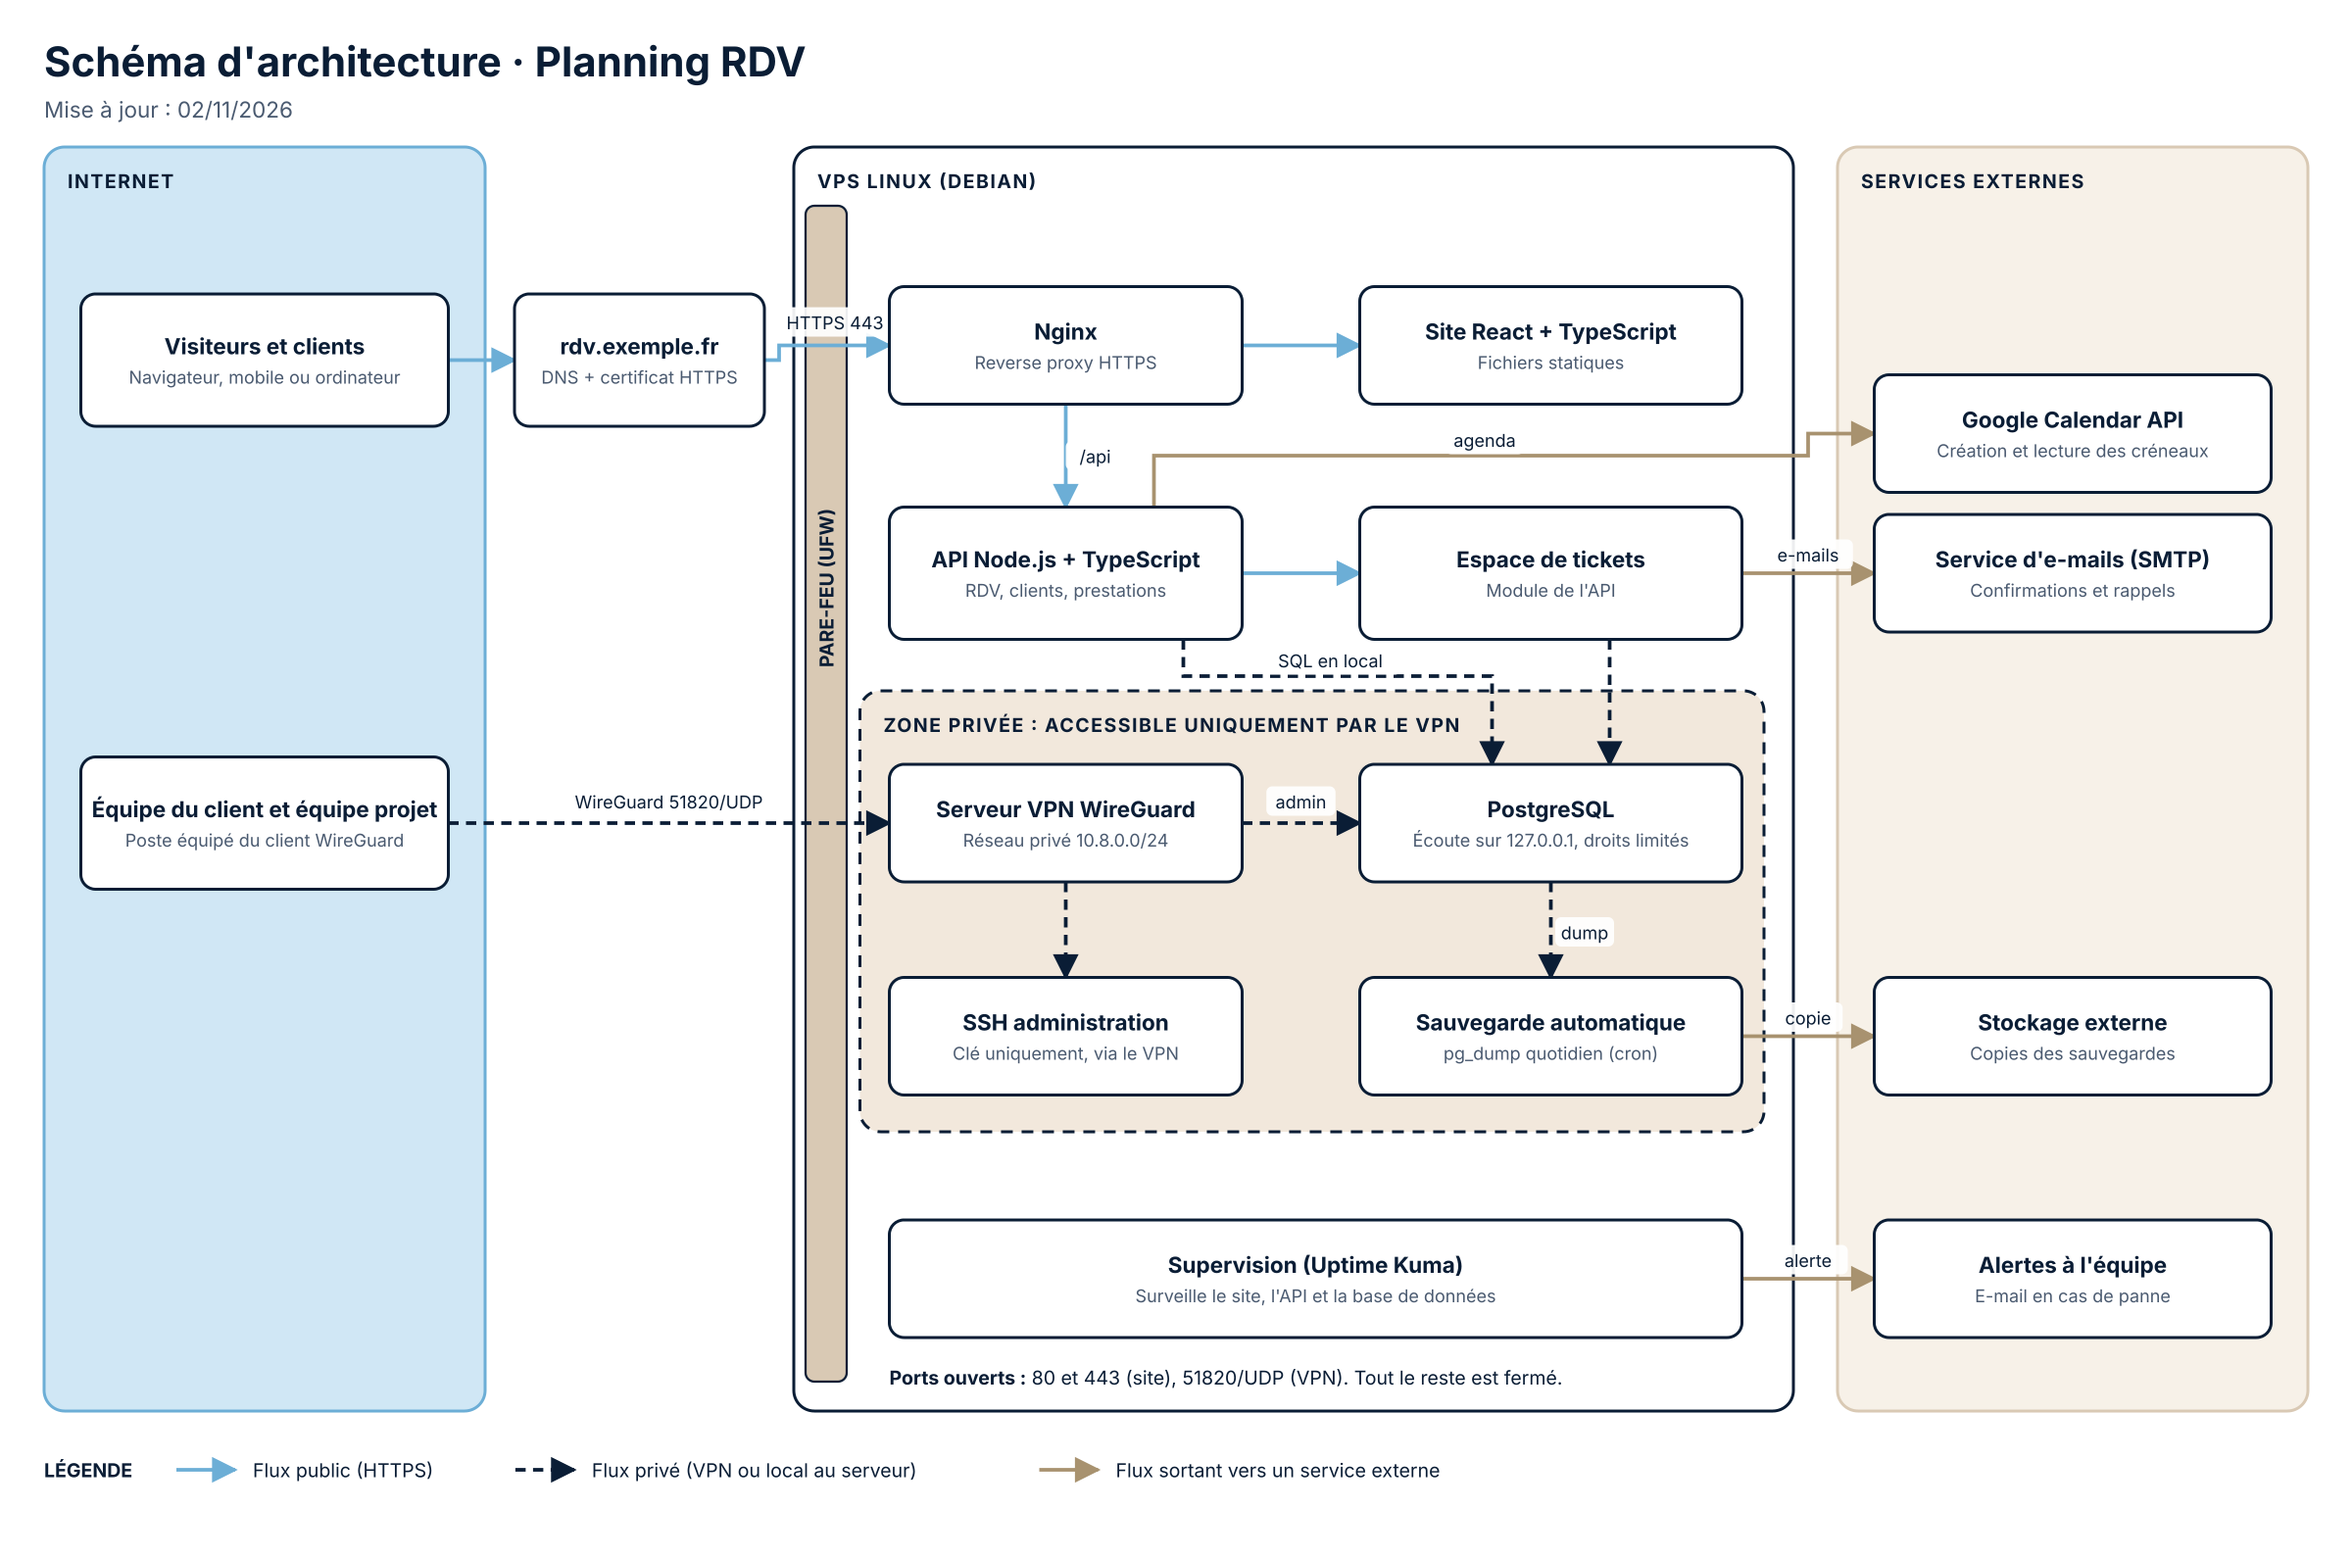
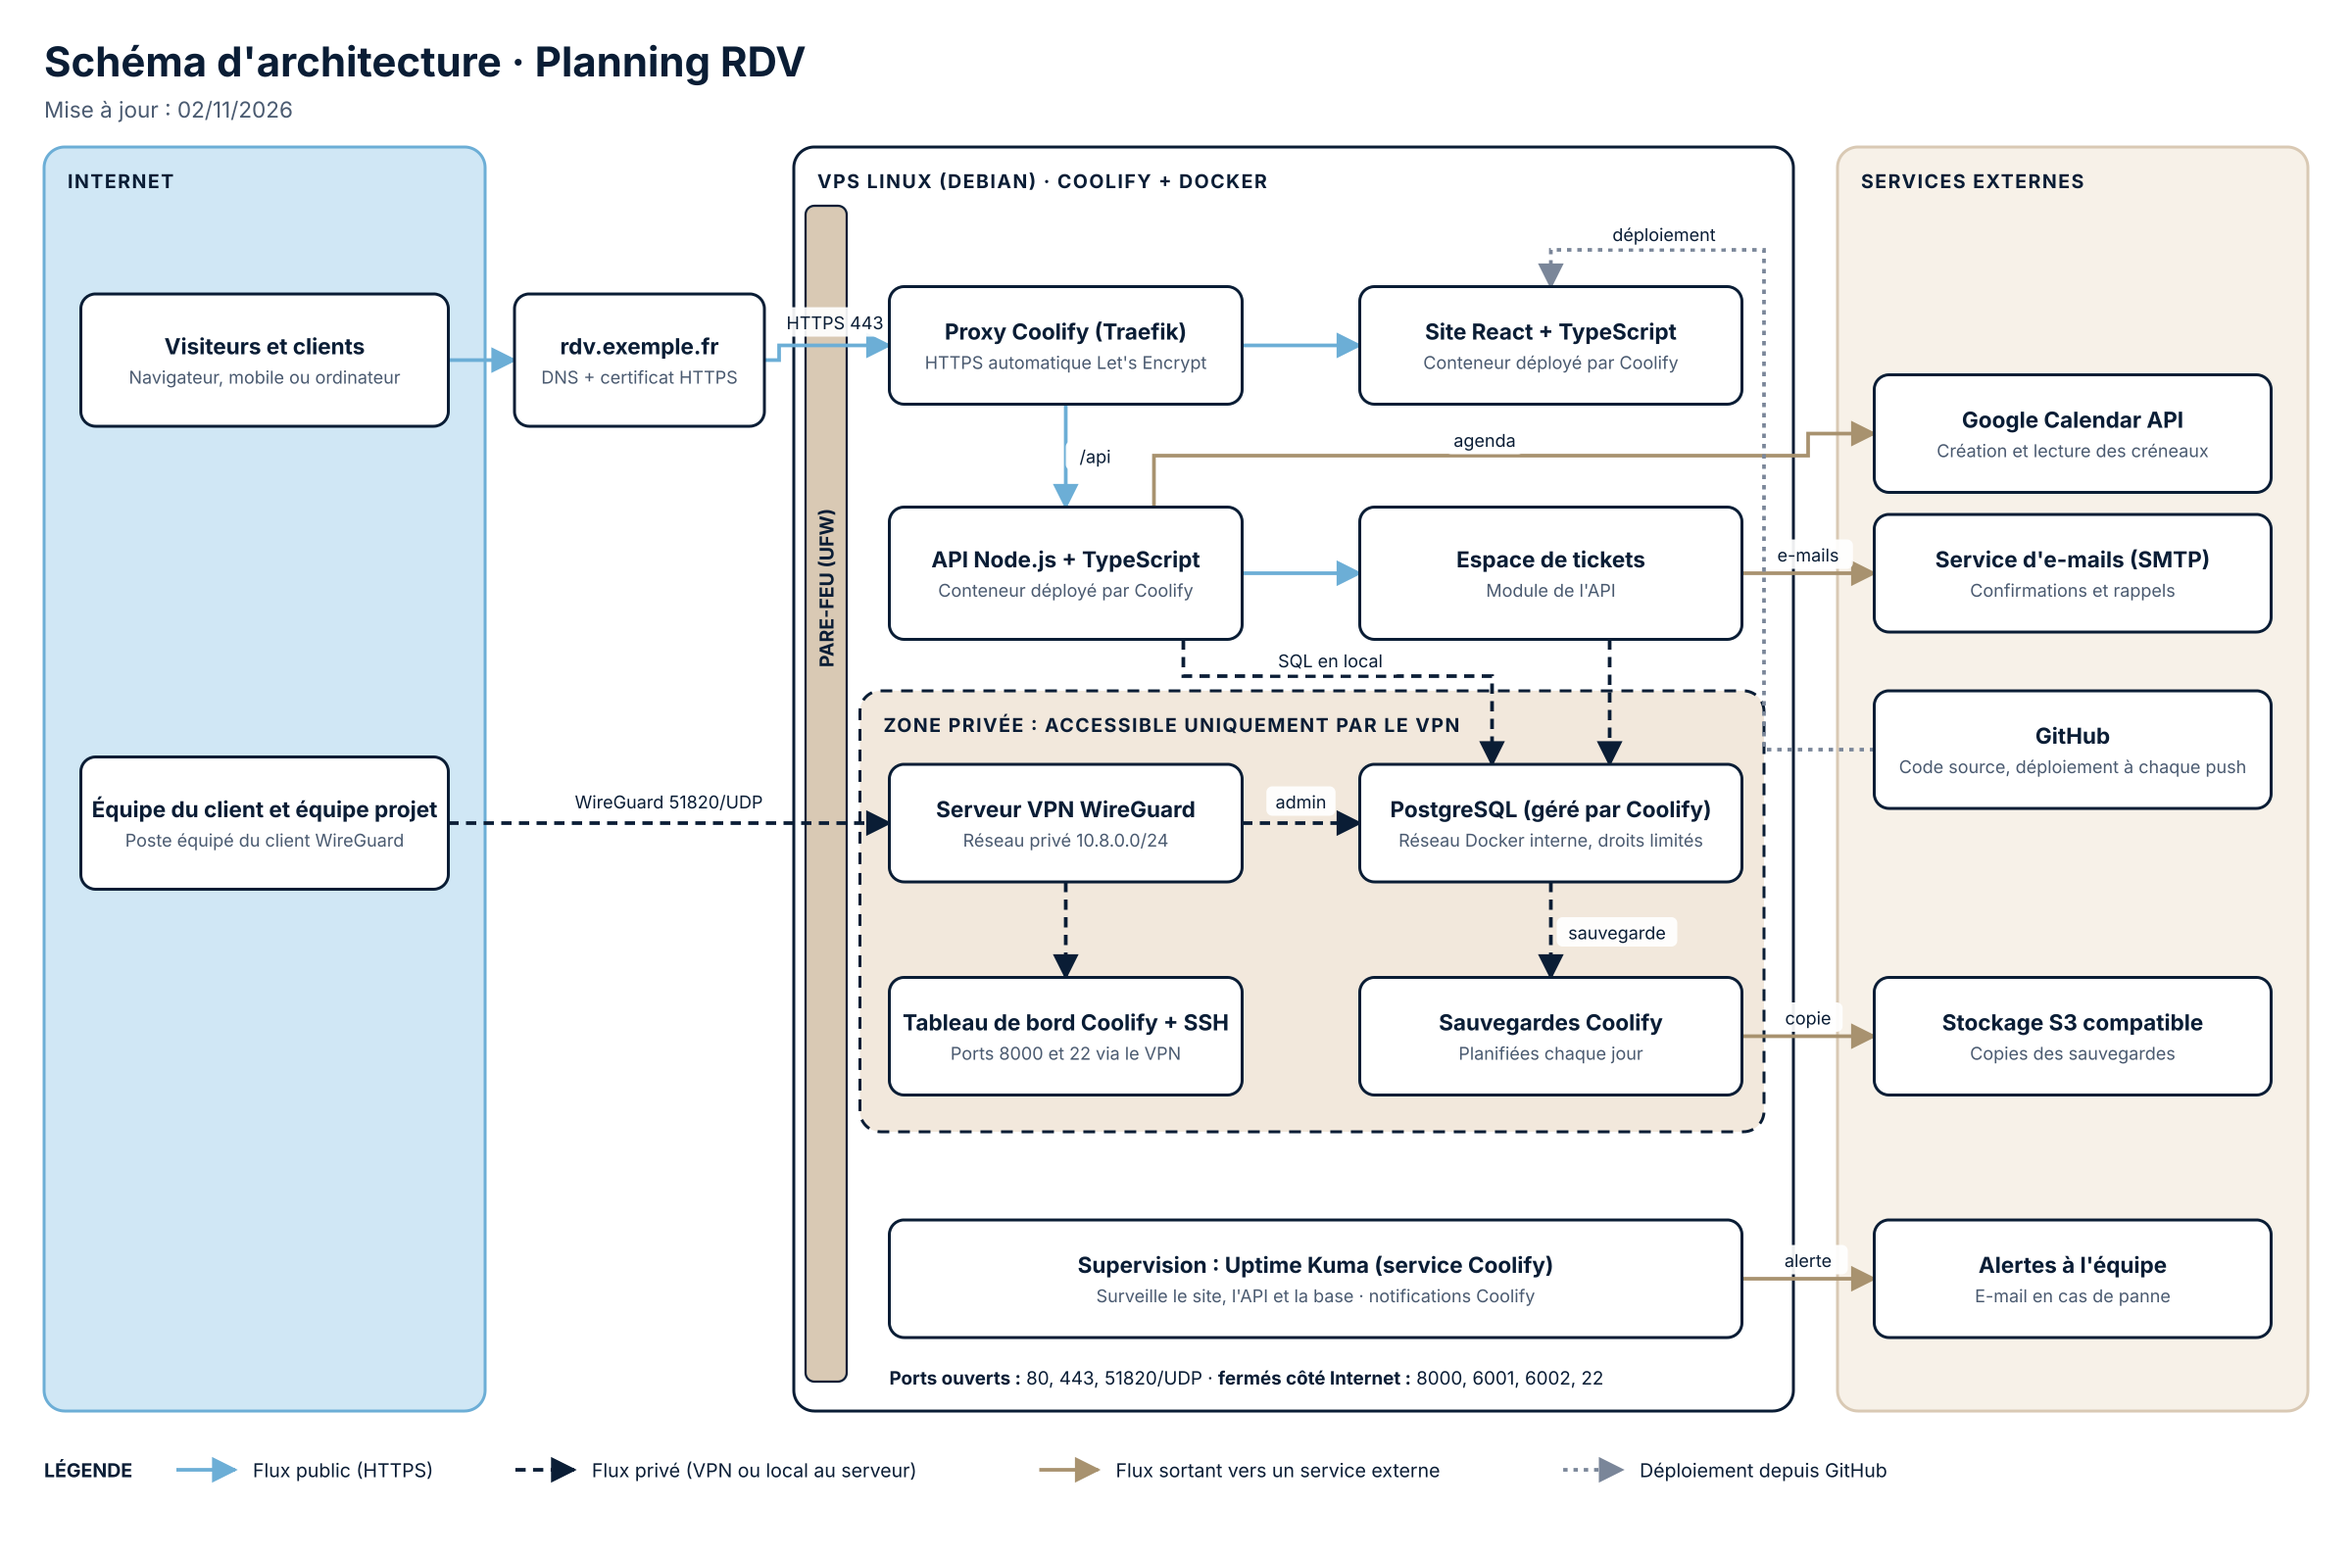
Schéma d'architecture : passage à Coolify
Claude-Session: https://claude.ai/code/session_01FQtCQfTXk5fcymuppQikVw

diff --git a/docs/make_schema.py b/docs/make_schema.py
@@ -8,7 +8,7 @@ W, H = 1600, 1060
 # Zones : id, x, y, w, h, titre, remplissage, contour, pointillés
 ZONES = [
     ("z_net", 30, 100, 300, 860, "INTERNET", DIAM, LIGHT, False),
-    ("z_vps", 540, 100, 680, 860, "VPS LINUX (DEBIAN)", "#FFFFFF", NAVY, False),
+    ("z_vps", 540, 100, 680, 860, "VPS LINUX (DEBIAN) · COOLIFY + DOCKER", "#FFFFFF", NAVY, False),
     ("z_priv", 585, 470, 615, 300, "ZONE PRIVÉE : ACCESSIBLE UNIQUEMENT PAR LE VPN", IVORY, NAVY, True),
     ("z_ext", 1250, 100, 320, 860, "SERVICES EXTERNES", "#F7F1E8", CHAMP, False),
 ]
@@ -18,19 +18,20 @@ BOXES = [
     ("visit", 55, 200, 250, 90, "Visiteurs et clients", "Navigateur, mobile ou ordinateur"),
     ("team", 55, 515, 250, 90, "Équipe du client et équipe projet", "Poste équipé du client WireGuard"),
     ("dns", 350, 200, 170, 90, "rdv.exemple.fr", "DNS + certificat HTTPS"),
-    ("nginx", 605, 195, 240, 80, "Nginx", "Reverse proxy HTTPS"),
-    ("front", 925, 195, 260, 80, "Site React + TypeScript", "Fichiers statiques"),
-    ("api", 605, 345, 240, 90, "API Node.js + TypeScript", "RDV, clients, prestations"),
+    ("nginx", 605, 195, 240, 80, "Proxy Coolify (Traefik)", "HTTPS automatique Let's Encrypt"),
+    ("front", 925, 195, 260, 80, "Site React + TypeScript", "Conteneur déployé par Coolify"),
+    ("api", 605, 345, 240, 90, "API Node.js + TypeScript", "Conteneur déployé par Coolify"),
     ("tickets", 925, 345, 260, 90, "Espace de tickets", "Module de l'API"),
     ("wg", 605, 520, 240, 80, "Serveur VPN WireGuard", "Réseau privé 10.8.0.0/24"),
-    ("pg", 925, 520, 260, 80, "PostgreSQL", "Écoute sur 127.0.0.1, droits limités"),
-    ("ssh", 605, 665, 240, 80, "SSH administration", "Clé uniquement, via le VPN"),
-    ("backup", 925, 665, 260, 80, "Sauvegarde automatique", "pg_dump quotidien (cron)"),
-    ("monit", 605, 830, 580, 80, "Supervision (Uptime Kuma)", "Surveille le site, l'API et la base de données"),
+    ("pg", 925, 520, 260, 80, "PostgreSQL (géré par Coolify)", "Réseau Docker interne, droits limités"),
+    ("ssh", 605, 665, 240, 80, "Tableau de bord Coolify + SSH", "Ports 8000 et 22 via le VPN"),
+    ("backup", 925, 665, 260, 80, "Sauvegardes Coolify", "Planifiées chaque jour"),
+    ("monit", 605, 830, 580, 80, "Supervision : Uptime Kuma (service Coolify)", "Surveille le site, l'API et la base · notifications Coolify"),
     ("gcal", 1275, 255, 270, 80, "Google Calendar API", "Création et lecture des créneaux"),
     ("smtp", 1275, 350, 270, 80, "Service d'e-mails (SMTP)", "Confirmations et rappels"),
-    ("store", 1275, 665, 270, 80, "Stockage externe", "Copies des sauvegardes"),
+    ("store", 1275, 665, 270, 80, "Stockage S3 compatible", "Copies des sauvegardes"),
     ("alert", 1275, 830, 270, 80, "Alertes à l'équipe", "E-mail en cas de panne"),
+    ("github", 1275, 470, 270, 80, "GitHub", "Code source, déploiement à chaque push"),
 ]
 
 # Flux : points, libellé, (lx, ly), type ("pub", "priv", "out")
@@ -45,14 +46,15 @@ EDGES = [
     ([(305, 560), (605, 560)], "WireGuard 51820/UDP", (455, 548), "priv"),
     ([(845, 560), (925, 560)], "admin", (885, 548), "priv"),
     ([(725, 600), (725, 665)], "", None, "priv"),
-    ([(1055, 600), (1055, 665)], "dump", (1078, 637), "priv"),
+    ([(1055, 600), (1055, 665)], "sauvegarde", (1100, 637), "priv"),
     ([(785, 345), (785, 310), (1230, 310), (1230, 295), (1275, 295)], "agenda", (1010, 302), "out"),
     ([(1185, 390), (1275, 390)], "e-mails", (1230, 380), "out"),
     ([(1185, 705), (1275, 705)], "copie", (1230, 695), "out"),
     ([(1185, 870), (1275, 870)], "alerte", (1230, 860), "out"),
+    ([(1275, 510), (1200, 510), (1200, 170), (1055, 170), (1055, 195)], "déploiement", (1132, 162), "dep"),
 ]
 
-STYLE = {"pub": (LIGHT, ""), "priv": (NAVY, "7,5"), "out": ("#A8926F", "")}
+STYLE = {"pub": (LIGHT, ""), "priv": (NAVY, "7,5"), "out": ("#A8926F", ""), "dep": ("#7A8699", "3,4")}
 
 
 def svg():
@@ -71,7 +73,7 @@ def svg():
     # pare-feu : bande verticale sur le bord gauche du VPS
     o.append(f'<rect x="548" y="140" width="28" height="800" rx="6" fill="{CHAMP}" stroke="{NAVY}" stroke-width="1.5"/>')
     o.append(f'<text transform="translate(567,400) rotate(-90)" text-anchor="middle" font-size="13" font-weight="700" fill="{NAVY}">PARE-FEU (UFW)</text>')
-    o.append(f'<text x="605" y="942" font-size="13" fill="{NAVY}"><tspan font-weight="700">Ports ouverts :</tspan> 80 et 443 (site), 51820/UDP (VPN). Tout le reste est fermé.</text>')
+    o.append(f'<text x="605" y="942" font-size="12.5" fill="{NAVY}"><tspan font-weight="700">Ports ouverts :</tspan> 80, 443, 51820/UDP · <tspan font-weight="700">fermés côté Internet :</tspan> 8000, 6001, 6002, 22</text>')
     for pts, lab, lp, k in EDGES:
         c, dash = STYLE[k]
         d = f' stroke-dasharray="{dash}"' if dash else ""
@@ -87,7 +89,7 @@ def svg():
         o.append(f'<text x="{x+w/2}" y="{y+h/2+16}" text-anchor="middle" font-size="12" fill="#4A5A70">{escape(s)}</text>')
     # légende
     ly = 1000
-    items = [("pub", "Flux public (HTTPS)"), ("priv", "Flux privé (VPN ou local au serveur)"), ("out", "Flux sortant vers un service externe")]
+    items = [("pub", "Flux public (HTTPS)"), ("priv", "Flux privé (VPN ou local au serveur)"), ("out", "Flux sortant vers un service externe"), ("dep", "Déploiement depuis GitHub")]
     x = 30
     o.append(f'<text x="{x}" y="{ly+5}" font-size="13" font-weight="700" fill="{NAVY}">LÉGENDE</text>')
     x += 90
@@ -107,7 +109,7 @@ def drawio():
     for i, x, y, w, h, t, fill, stroke, dash in ZONES:
         st = f"rounded=1;arcSize=3;whiteSpace=wrap;html=1;fillColor={fill};strokeColor={stroke};strokeWidth=2;verticalAlign=top;align=left;spacingLeft=12;spacingTop=6;fontStyle=1;fontColor={NAVY};" + ("dashed=1;" if dash else "")
         cells.append(f'<mxCell id="{i}" value="{a(t)}" style="{st}" vertex="1" parent="1"><mxGeometry x="{x}" y="{y}" width="{w}" height="{h}" as="geometry"/></mxCell>')
-    cells.append(f'<mxCell id="fw" value="PARE-FEU (UFW) : ports 80, 443 et 51820/UDP ouverts, tout le reste fermé" style="rounded=1;whiteSpace=wrap;html=1;fillColor={CHAMP};strokeColor={NAVY};horizontal=0;fontStyle=1;fontColor={NAVY};" vertex="1" parent="1"><mxGeometry x="548" y="140" width="28" height="800" as="geometry"/></mxCell>')
+    cells.append(f'<mxCell id="fw" value="PARE-FEU (UFW) : ports 80, 443 et 51820/UDP ouverts ; 8000, 6001, 6002 et 22 fermés côté Internet" style="rounded=1;whiteSpace=wrap;html=1;fillColor={CHAMP};strokeColor={NAVY};horizontal=0;fontStyle=1;fontColor={NAVY};" vertex="1" parent="1"><mxGeometry x="548" y="140" width="28" height="800" as="geometry"/></mxCell>')
     for i, x, y, w, h, t, s in BOXES:
         v = a(f"<b>{escape(t)}</b><br><font color='#4A5A70' style='font-size:11px'>{escape(s)}</font>")
         cells.append(f'<mxCell id="{i}" value="{v}" style="rounded=1;whiteSpace=wrap;html=1;fillColor=#FFFFFF;strokeColor={NAVY};strokeWidth=2;fontColor={NAVY};" vertex="1" parent="1"><mxGeometry x="{x}" y="{y}" width="{w}" height="{h}" as="geometry"/></mxCell>')
